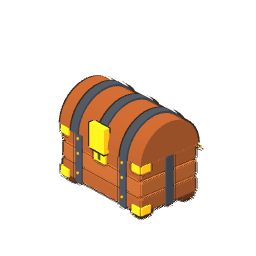
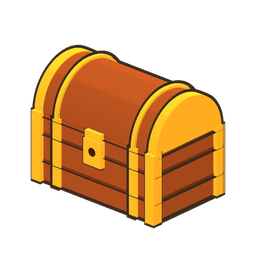
Ferme : le coffre du jour en 3D et anime (il tombe, tremble, s'ouvre d'un coup, kamas et gemmes jaillissent), nouveau coffre au tresor aussi dans les icones

diff --git a/site/ferme/js/16-progression.js b/site/ferme/js/16-progression.js
@@ -125,19 +125,101 @@ function ouvrirCoffre() {
   if (Math.random() < 0.5) { objet = donnerObjet(tirerPiece(panoAuHasard(palierCourant()))); } /* (l'identifiant : l'animation montre la piece) */
   rendreHaut(); rendreObjectif(); sauver(); animerCoffre(kamas, objet);
 }
-/* le coffre arrive ferme, tremble, s'ouvre dans un eclair (images coffre-ferme / coffre-ouvert, generer-coffre.html), puis les gains sortent un par un */
+/* le coffre arrive ferme, tremble, s'ouvre dans un eclair, puis les gains sortent un par un ; le coffre est en 3D et anime (coffre3d, 05/11/2026),
+   les images coffre-ferme / coffre-ouvert (generer-coffre.html) ne servent plus que si la 3D manque */
 function animerCoffre(kamas, id) {
   const o = id && obj(id), v = '?v=' + VERSION_MODELES;
-  ouvrirModale('coffre', entete('Le coffre du jour') + '<div class="ouverture-coffre"><div class="scene-coffre"><div class="rayons"></div><img class="c-ferme" src="assets/icones/coffre-ferme.png' + v + '" alt=""><img class="c-ouvert" src="assets/icones/coffre-ouvert.png' + v + '" alt=""><div class="eclair"></div></div>' +
+  ouvrirModale('coffre', entete('Le coffre du jour') + '<div class="ouverture-coffre"><div class="scene-coffre"><div class="rayons"></div><img class="c-ferme" src="assets/icones/coffre-ferme.png' + v + '" alt=""><img class="c-ouvert" src="assets/icones/coffre-ouvert.png' + v + '" alt=""><canvas class="coffre3d" width="520" height="460"></canvas><div class="eclair"></div></div>' +
     '<div class="gains-coffre"><div class="gain-coffre"><img src="assets/icones/kama.png' + v + '" alt=""><b>+' + fmt(kamas) + ' kamas</b></div>' +
     (o ? '<div class="gain-coffre objet"><img src="assets/icones/' + iconeObjet(id) + '.png' + v + '" alt=""' + (o.rare ? ' class="rare"' : '') + '><div class="desc"><b>' + o.nom + '</b> <span class="puce neuf">nouveau</span><div class="puces">' + statsObjet(o) + '</div></div></div>' : '') + '</div>' +
     '<div class="boutons">' + (o ? '<button class="btn discret" data-coffre-fiche>Voir dans ma fiche</button>' : '') + '<button class="btn kamas" data-coffre-ok>Super !</button></div></div>');
   const sc = document.querySelector('.scene-coffre'), z = document.querySelector('.ouverture-coffre'), plus = (f, ms) => setTimeout(() => { if (modaleOuverte === 'coffre') f(); }, ms);
   const gains = [...z.querySelectorAll('.gain-coffre')];
+  try { if (coffre3d(sc.querySelector('canvas.coffre3d'))) sc.classList.add('avec3d'); } catch (e) { console.warn('coffre 3D', e); }
   plus(() => sc.classList.add('tremble'), 450);
   plus(() => { sc.classList.remove('tremble'); sc.classList.add('flash', 'ouvert'); son('niveau'); confettis(50); }, 1450);
   gains.forEach((g, k) => plus(() => { g.classList.add('vu'); son('kamas'); }, 1850 + k * 450));
   plus(() => z.classList.add('fini'), 1850 + gains.length * 450);
+}
+/* LE COFFRE EN 3D (05/11/2026, « le coffre, c'est celui-la qu'on va prendre et animer quand on ouvre nos coffres en jeu ; on a un coffre trop fade »,
+   Mathieu) : le coffre au tresor de l'icone du jackpot (generer-icone-jackpot.html, piste B), construit ici en toon comme le reste du jeu : bois
+   rouge-brun, ferrures et coins d'or, serrure, couvercle bombe ; dedans un tas de kamas du jeu en or franc et des gemmes. Son ouverture suit le rythme
+   de la fenetre (animerCoffre) : il tombe et rebondit (0 a 0,4 s), tremble, le couvercle claque (0,45 a 1,45 s), s'ouvre d'un coup en rebondissant
+   sur sa charniere, une lumiere d'or jaillit du dedans et des kamas et des gemmes sautent en l'air et retombent autour ; puis il tourne doucement. */
+const COFFRE3D = { r: null, sc: null, cam: null, base: null, R: 0.1, EP: 0.02, piece: null };
+const COF_OR = { kama_bord: '#ffcd38', kama_cran: '#8a4b00', kama_motif: '#ffd95a', kama: '#e89b06' };
+function cofPiece() { /* un kama du jeu en or franc, centre et couche a plat */
+  if (!COFFRE3D.piece) {
+    const src = MODELES.kamaPiece; if (!src) return null;
+    const k = src.clone(true); k.position.set(0, 0, 0); k.rotation.set(0, 0, 0); k.scale.set(1, 1, 1);
+    k.traverse((x) => { if (!x.isMesh || x.material.side === T.BackSide) return; const n = x.name.replace(/\.?\d+$/, ''); x.material = toon(new T.Color(COF_OR[n] || COF_OR.kama)); x.castShadow = false; });
+    const b = new T.Box3().setFromObject(k), s = b.getSize(new T.Vector3()), c = b.getCenter(new T.Vector3());
+    const R = Math.max(s.x, s.y, s.z) / 2, EP = Math.min(s.x, s.y, s.z); k.position.sub(c);
+    const p = new T.Group(); p.add(k); if (s.x === EP) p.rotation.z = Math.PI / 2; else if (s.z === EP) p.rotation.x = Math.PI / 2;
+    const g = new T.Group(); g.add(p); g.scale.setScalar(0.1 / R); COFFRE3D.piece = g; COFFRE3D.EP = EP * 0.1 / R; /* (le kama ramene a un rayon de 0,1) */
+  }
+  return COFFRE3D.piece.clone(true);
+}
+function cofMaille(geo, c, sansContour) { const g = new T.Group(), m = new T.Mesh(geo, toon(new T.Color(c))); g.add(m); if (!sansContour) g.add(new T.Mesh(geo, contourMat(0.006))); return g; }
+function cofGemme(c, t, rond) { const g = cofMaille(rond ? new T.IcosahedronGeometry(t, 0) : new T.OctahedronGeometry(t, 0), c); if (!rond) g.scale.set(1, 1.35, 1);
+  const r = new T.Mesh(new T.SphereGeometry(t * 0.22, 8, 6), new T.MeshBasicMaterial({ color: '#ffffff' })); r.position.set(-t * 0.35, t * 0.45, t * 0.55); g.add(r); return g; }
+function construireCoffre3d() {
+  const R = 0.1, L = R * 7.2, P = R * 4.4, H = R * 3.4, BOISC = '#9a4b22', BOISF = '#6e3214', FERR = '#f0b52a', g = new T.Group();
+  const pose = (o, x, y, z, rx, ry, rz, par) => { o.position.set(x, y, z); o.rotation.set(rx || 0, ry || 0, rz || 0); (par || g).add(o); return o; };
+  const B = (w, h, d, c) => cofMaille(new T.BoxGeometry(w, h, d), c);
+  pose(B(L, H, P, BOISC), 0, H / 2, 0);
+  [-1, 1].forEach((s) => { pose(B(R * 0.5, H * 1.02, P * 1.04, FERR), s * L * 0.33, H / 2, 0); [-1, 1].forEach((t) => pose(B(R * 0.55, H * 1.03, R * 0.55, FERR), s * L * 0.49, H / 2, t * P * 0.49)); });
+  [0.3, 0.7].forEach((k) => pose(B(L * 1.005, R * 0.12, P * 1.005, BOISF), 0, H * k, 0));
+  pose(B(R * 1.1, R * 1.3, R * 0.3, FERR), 0, H * 0.72, P / 2 + R * 0.12); pose(cofMaille(new T.CircleGeometry(R * 0.22, 12), '#3a1a06', true), 0, H * 0.74, P / 2 + R * 0.28);
+  pose(B(L * 0.94, R * 0.05, P * 0.9, '#2a1206'), 0, H * 0.985, 0);   /* (le fond sombre, sous le tas) */
+  const tas = new T.Group(); tas.position.y = H * 0.9; g.add(tas);
+  let s0 = 7; const h = () => (s0 = (s0 * 16807) % 2147483647) / 2147483647;
+  for (let i = 0; i < 30; i++) { const a = i * 2.4, r = R * 3.0 * Math.sqrt((i + 0.5) / 30), y = (1 - (r / (R * 3.0)) ** 2) * R * 1.4 + h() * R * 0.15, k = cofPiece(); if (!k) return null;
+    pose(k, Math.cos(a) * r * 1.05, y, Math.sin(a) * r * (P / (R * 6.6)), (h() - 0.5) * 0.9, h() * 6, (h() - 0.5) * 0.9, tas); }
+  [[-L * 0.28, R * 1.1, R * 0.5, '#e0233c'], [L * 0.2, R * 1.2, -R * 0.4, '#25b864', true], [L * 0.04, R * 1.6, R * 0.6, '#2f7fe8'], [-L * 0.06, R * 1.5, -R * 0.9, '#a23ae0']].forEach(([x, y, z, c, rond], i) => pose(cofGemme(c, R * 0.4, rond), x, y, z, 0.3, i, 0.2, tas));
+  const ch = new T.Group(); ch.position.set(0, H, -P / 2); g.add(ch);   /* (la charniere a l'arriere) */
+  const cv = cofMaille(new T.CylinderGeometry(P / 2, P / 2, L, 28, 1, false, 0, Math.PI), BOISC); cv.rotation.z = Math.PI / 2; cv.position.set(0, 0, P / 2); ch.add(cv);
+  pose(B(L, R * 0.18, P, BOISF), 0, -R * 0.09, P / 2, 0, 0, 0, ch);
+  [-1, 1].forEach((s) => { const ba = cofMaille(new T.TorusGeometry(P / 2 * 1.02, R * 0.14, 6, 24, Math.PI), FERR); ba.rotation.y = Math.PI / 2; ba.position.set(s * L * 0.33, 0, P / 2); ch.add(ba);
+    const bo = cofMaille(new T.CylinderGeometry(P / 2 * 1.02, P / 2 * 1.02, R * 0.5, 28, 1, false, 0, Math.PI), FERR); bo.rotation.z = Math.PI / 2; bo.position.set(s * L * 0.49, 0, P / 2); ch.add(bo); });
+  pose(B(R * 1.0, R * 0.7, R * 0.25, FERR), 0, -R * 0.25, P + R * 0.1, 0, 0, 0, ch);   /* (le moraillon de la serrure) */
+  const lum = new T.PointLight('#ffc845', 0, R * 14); lum.position.set(0, H + R * 1.2, 0); g.add(lum);
+  return { g, ch, lum, L, P, H, R };
+}
+function coffre3d(cv) {
+  if (!cv || !MODELES.kamaPiece) return false;
+  const C = COFFRE3D;
+  if (!C.r) { C.r = new T.WebGLRenderer({ canvas: document.createElement('canvas'), antialias: true, alpha: true }); C.r.setPixelRatio(1); C.r.setClearColor(0x000000, 0);
+    C.sc = new T.Scene(); C.sc.add(new T.HemisphereLight('#fff1d6', '#7f5a2e', 0.5)); const d = new T.DirectionalLight('#fff0d0', 0.8); d.position.set(-3, 6, 5); C.sc.add(d); const r = new T.DirectionalLight('#ffd27a', 0.35); r.position.set(4, 2, -5); C.sc.add(r);
+    C.cam = new T.PerspectiveCamera(30, cv.width / cv.height, 0.05, 50); }
+  if (C.base) C.sc.remove(C.base.g);
+  const B = construireCoffre3d(); if (!B) return false; C.base = B; C.sc.add(B.g);
+  C.r.setSize(cv.width, cv.height, false); C.cam.aspect = cv.width / cv.height; C.cam.updateProjectionMatrix();
+  C.cam.position.set(B.L * 1.35, B.H * 4.4, B.L * 3.3); C.cam.lookAt(0, B.H * 1.15, 0);   /* (assez de recul pour le couvercle ouvert et les kamas qui sautent) */
+  const ctx = cv.getContext('2d'), sauts = [], debut = performance.now(), G = 3.2;
+  const lancer = () => { for (let i = 0; i < 18; i++) { const gm = i >= 14, o = gm ? cofGemme(['#e0233c', '#25b864', '#2f7fe8', '#a23ae0'][i - 14], B.R * 0.35, i === 15) : cofPiece(); if (!o) break;
+      const a = Math.random() * Math.PI * 2, v = 0.4 + Math.random() * 0.45; if (!gm) o.scale.multiplyScalar(0.78); o.position.set((Math.random() - 0.5) * B.L * 0.5, B.H * 1.05, (Math.random() - 0.5) * B.P * 0.4); B.g.add(o);
+      sauts.push({ o, v: new T.Vector3(Math.cos(a) * v * 0.42, 1.35 + Math.random() * 0.8, Math.sin(a) * v * 0.3 + 0.12), w: new T.Vector3(Math.random() * 9, Math.random() * 9, Math.random() * 9), pose: false }); } };
+  let lance = false, prec = debut;
+  const image = (now) => {
+    if (modaleOuverte !== 'coffre' || !document.body.contains(cv)) { C.sc.remove(B.g); return; }
+    const t = (now - debut) / 1000, dt = Math.min(0.05, (now - prec) / 1000); prec = now;
+    const g = B.g; g.position.set(0, 0, 0); g.rotation.set(0, 0, 0); g.scale.set(1, 1, 1);
+    if (t < 0.4) { const k = t / 0.4; g.position.y = B.H * 2.6 * (1 - k) * (1 - k); }   /* (il tombe) */
+    else if (t < 0.6) { const k = (t - 0.4) / 0.2, e = Math.sin(k * Math.PI); g.scale.set(1 + 0.12 * e, 1 - 0.16 * e, 1 + 0.12 * e); }   /* (il s'ecrase en touchant le sol) */
+    let ang = 0;
+    if (t >= 0.45 && t < 1.45) { const k = (t - 0.45) / 1.0; g.rotation.z = Math.sin(t * 62) * 0.045 * (0.4 + k); g.position.x = Math.sin(t * 47) * B.R * 0.12 * k; ang = -0.16 * Math.abs(Math.sin(t * 24)) * k; }   /* (il tremble, le couvercle claque) */
+    if (t >= 1.45) { const k = t - 1.45; ang = -1.92 - 0.35 * Math.exp(-k * 5) * Math.cos(k * 16); if (k < 0.12) ang = -1.92 * (k / 0.12) - 0.1; /* (il s'ouvre d'un coup et rebondit sur sa charniere) */
+      if (!lance) { lance = true; lancer(); }
+      B.lum.intensity = 2.6 * Math.exp(-k * 1.6) + 0.6;
+      g.rotation.y = Math.sin(k * 0.7) * 0.32 * Math.min(1, k / 1.5); }
+    B.ch.rotation.x = ang;
+    sauts.forEach((s) => { if (s.pose) return; s.v.y -= G * dt; s.o.position.addScaledVector(s.v, dt); s.o.rotation.x += s.w.x * dt; s.o.rotation.y += s.w.y * dt; s.o.rotation.z += s.w.z * dt;
+      if (s.o.position.y <= B.R * 0.04 && s.v.y < 0) { if (Math.abs(s.v.y) > 0.6) { s.v.y *= -0.35; s.v.x *= 0.5; s.v.z *= 0.5; s.w.multiplyScalar(0.4); } else { s.o.position.y = B.R * 0.04; s.o.rotation.set(-Math.PI / 2 * 0 + (Math.random() - 0.5) * 0.3, s.o.rotation.y, (Math.random() - 0.5) * 0.3); s.pose = true; } } });
+    C.r.render(C.sc, C.cam); ctx.clearRect(0, 0, cv.width, cv.height); ctx.drawImage(C.r.domElement, 0, 0);
+    requestAnimationFrame(image);
+  };
+  requestAnimationFrame(image); return true;
 }
 /* ---------- la file d'actions : on touche plusieurs bulles, le paysan les enchaine ---------- */
 let fileActions = [];

diff --git a/site/ferme/index.html b/site/ferme/index.html
@@ -16,7 +16,7 @@
 <link rel="preconnect" href="https://fonts.googleapis.com">
 <link rel="preconnect" href="https://fonts.gstatic.com" crossorigin>
 <link rel="stylesheet" href="https://fonts.googleapis.com/css2?family=Lilita+One&family=Nunito:wght@600;800&display=swap">
-<link rel="stylesheet" href="css/jeu.css?v=4ff528a1a6">
+<link rel="stylesheet" href="css/jeu.css?v=d8ae89fb8f">
 </head>
 <body>
 <canvas id="ciel" aria-hidden="true"></canvas>
@@ -95,7 +95,7 @@
 <script src="js/06-temps.js?v=45bc8f81b4"></script>
 <script src="js/07-actions.js?v=a6ef514a44"></script>
 <script src="js/08-scene.js?v=a9f80b8661"></script>
-<script src="js/09-modeles.js?v=c71631de0d"></script>
+<script src="js/09-modeles.js?v=5638777850"></script>
 <script src="js/10-ciel.js?v=72eb99f225"></script>
 <script src="js/11-ferme-3d.js?v=fb3d586e7b"></script>
 <script src="js/12-perso.js?v=ce8ba5bc76"></script>
@@ -107,7 +107,7 @@
 <script src="js/14e-filet.js?v=afc433f113"></script>
 <script src="js/14f-tofus.js?v=25380ff923"></script>
 <script src="js/15-sons.js?v=4b9ac37a18"></script>
-<script src="js/16-progression.js?v=754e4cb507"></script>
+<script src="js/16-progression.js?v=b0ecdbbce9"></script>
 <script src="js/17-vagues.js?v=9b7f8b0a15"></script>
 <script src="js/18-geliere.js?v=3720a33354"></script>
 <script src="js/19-raids.js?v=6b6aff383d"></script>

diff --git a/site/ferme/css/jeu.css b/site/ferme/css/jeu.css
@@ -644,6 +644,9 @@ input, textarea { -webkit-user-select: text; user-select: text; }
 .scene-coffre img { position: absolute; left: 50%; top: 50%; width: 200px; height: 200px; transform: translate(-50%, -50%); }
 .scene-coffre .c-ferme { animation: coffre-arrive .4s cubic-bezier(.2, 1.5, .4, 1) both; }
 .scene-coffre .c-ouvert { opacity: 0; }
+.scene-coffre canvas.coffre3d { position: absolute; left: 50%; top: 50%; width: 260px; height: 230px; transform: translate(-50%, -50%); pointer-events: none; } /* (le coffre en 3D, 05/11/2026 ; les images ne servent plus que sans lui) */
+.scene-coffre.avec3d img { display: none; }
+.scene-coffre:not(.avec3d) canvas.coffre3d { display: none; }
 .scene-coffre.tremble .c-ferme { animation: coffre-tremble .13s linear infinite; }
 .scene-coffre.ouvert .c-ferme { opacity: 0; animation: none; }
 .scene-coffre.ouvert .c-ouvert { opacity: 1; animation: coffre-jaillit .55s cubic-bezier(.2, 1.7, .4, 1) both; }

diff --git a/site/ferme/js/09-modeles.js b/site/ferme/js/09-modeles.js
@@ -335,6 +335,7 @@ async function chargerModeles() {
   versToon(G['casino-jeu'], BATI); MODELES.montgolfiere = G['casino-jeu'].getObjectByName('MontgolfiereSol') || G['casino-jeu'].getObjectByName('Montgolfiere'); /* (l'ile ronde : posee dans l'herbe, amarree a ses piquets ; plus de ponton au-dessus du vide) */ MODELES.decorCasino = G['casino-jeu'].getObjectByName('DecorVisite'); /* (blender/casino.py --jeu) */
   modelesNiveaux(G); /* 11/10/2026 : les batiments du niveau 1 au niveau 5 */
   MODELES.epouvantail = gabarit(G.batiments, 'epouvantail', 2.6, 'y');
+  MODELES.kamaPiece = G.objets.getObjectByName('kama'); /* (le kama du jeu, pour le coffre en 3D : 16-progression.js, coffre3d) */
   MODELES.botte = gabarit(G.objets, 'botte', 1.0);
   MODELES.auge = gabarit(G.objets, 'auge', 1.5);
   MODELES.cloture = gabarit(G.objets, 'clotureDroite', 2.0);
